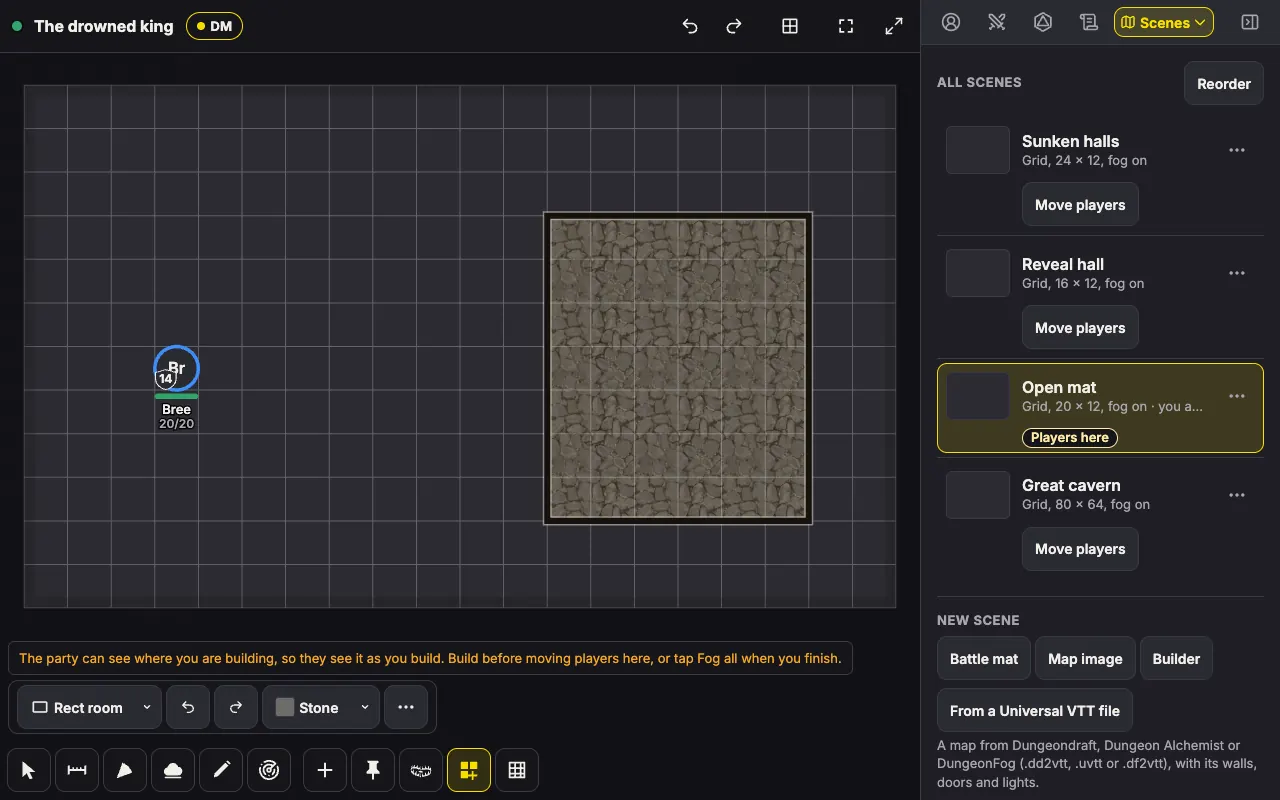
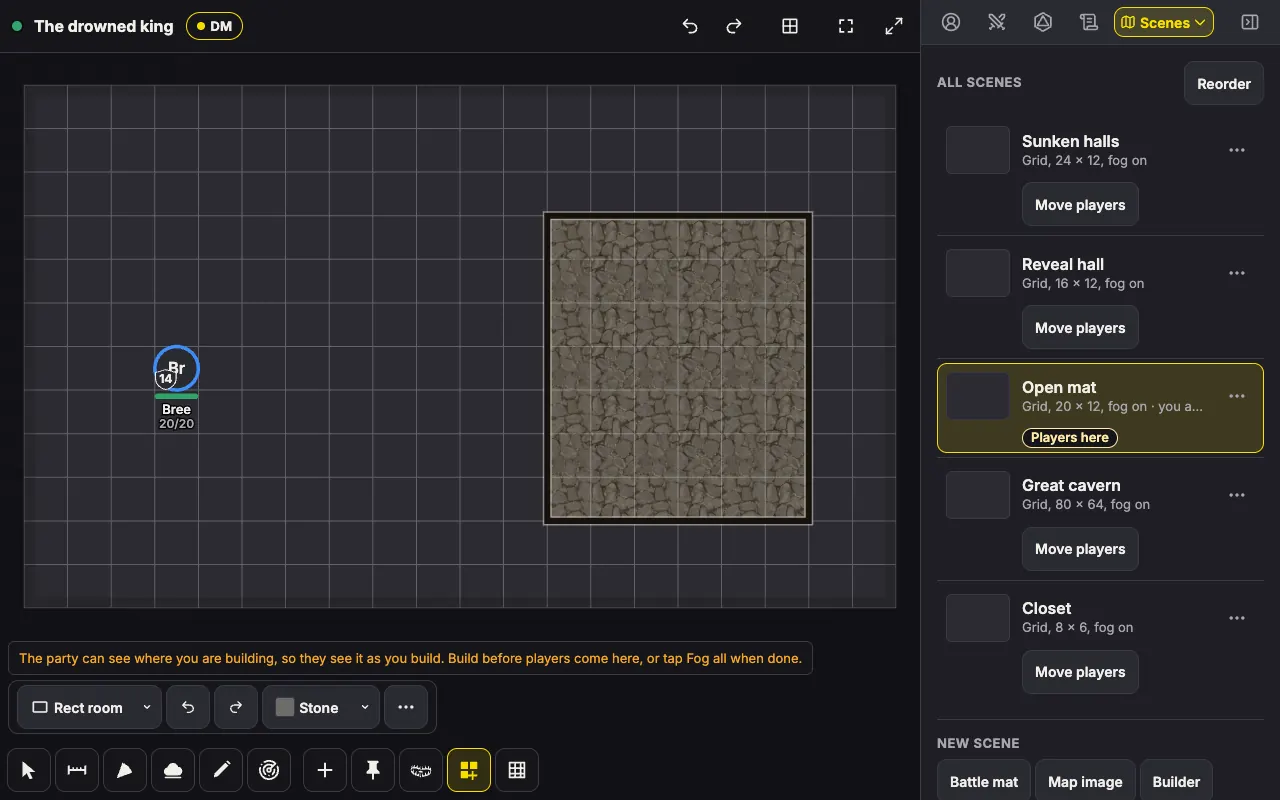
docs: map discovery round 1 for the client lane, what a stop names, first-step stops and the ask before a gesture applies

Changed region(s): [[0.7188, 0.875, 0.9688, 1.0], [0.7188, 0.75, 0.9375, 0.8438], [0.4062, 0.8125, 0.6562, 0.8438]]

diff --git a/docs/design-v1-map-discovery.md b/docs/design-v1-map-discovery.md
@@ -39,7 +39,7 @@ Asking the owner is off, so each choice the decisions leave open is a guess at t
 8. **Written after the batch, replayed as stored**, by the explore step: `sys.explore` then `sys.remember`. Rejected: the reducer writing memory inside each build op (each op would recompute sight).
 9. **Past its cap a layer forgets whole fog tiles, and the builder asks first** (D-261026-29). Rejected: forgetting cell by cell (draws the edit's outline, LK-2), the whole scene (harsh for one paste), refusing the DM.
 10. **Vision or fog off forgets the scene's memory**, and the controls say so first. Rejected: keeping memory while off (hides edits players already saw live).
-11. **The touch rule** (D-261026-29). Its words are judged on the stopping step, from the landing to the next spot, and every stop or refusal whose step touches a cell off live ground gives the generic words, remembered ground included (LK-34). Rejected: M4's ban on entering unheld ground (freezes a blind or unlit creature, stops every step past a reveal, changes play at deploy), refusing a stopped walk in place (free probing from one spot, MD-O-32), drawing what a creature touched (their map would hold geometry their sight never reached), the whole attempted leg for the words (a stop at a wall the player holds would get generic words).
+11. **The touch rule** (D-261026-29). Its words are judged on the stopping step, from the landing to the next spot, and every stop or refusal whose step touches a cell off live ground gives the generic words, remembered ground included (LK-34). D-261027-04 amends a walk's words: a stop names the blocker the walk met where the part of it met lies on the player's live ground, a wall or door beside a live cell or through one, a ledge only between two live cells, whatever lies unseen past it. Rejected: M4's ban on entering unheld ground (freezes a blind or unlit creature, stops every step past a reveal, changes play at deploy), refusing a stopped walk in place (free probing from one spot, MD-O-32), drawing what a creature touched (their map would hold geometry their sight never reached), the whole attempted leg for the words (a stop at a wall the player holds would get generic words).
 12. **Route corners on scenes with memory** reach a non-moving owner of a private leg only where every spot is in that owner's sight or on DM-revealed ground. Rejected: any ground the owner's fog reveals (draws the mover's memory or private sight, ASTRA-3).
 13. **Areas, per receiver** (D-261026-29 item 5). A player gets an area's reminder, caught line or target ring only when every ray its inclusion test reads (footprint samples under `anyCell` or `majority`, every emanation origin) lies on that player's live ground: in sight or DM-revealed, or revealed on a fog-only scene. This holds for every receiving player and for the DM's areas. The DM's roll requests stay the DM's choice. Rejected: the receiver's held build with memory (stale memory would tell a player they are caught when they are not), one representative line (ASTRA-9), the caster's ground alone (LK-24).
 14. **Border facts ride stub chunks.** Every chunk position with a held cell or held edge is sent, one position past the east and south bounds included, as a stub where no chunk is stored. Rejected: east and south border bits in each chunk with `known` from the device's fog (the device's walls would then read fog and lose their cache by chunk identity).
@@ -95,7 +95,7 @@ Asking the owner is off, so each choice the decisions leave open is a guess at t
 - **The device.** The player's copy of the scene carries `autoWalls: "off"` on a scene with fog on. `walls.ts` reads `auto` as automatic walls, `upDir` in place of `stairDirections`, and derives no raised edge beside a cell outside `known`. A position with no chunk is all unknown.
 - **Pieces on the device** (ASTRA-10, MD-R2-1, ASTRA-17, LK-30). A player's chunk takes its free walls through a piece path in `walls.ts` beside `validFreeWall`: ends finite, length above zero and at most 8 cells, and bounds checked exactly. Every piece passes with no slack, since it is at most 5.66 cells long and each end is a lattice value, a grid value or on the scene's side, so ASTRA-17's slack goes. Pieces skip `segments.ts`'s counting split, which indexes by lattice coordinates. The device tests pieces two ways, by what follows the test (below). Its `SegmentIndex` buckets each piece by every cell within 2/10000 cell of it. The device never works out which cells a piece crosses: selection and filing come from the server's exact geometry (ASTRA-30, MD-R7-1). Drawing reads them as they are, as Isometric already splits free walls by cell (`wallPieces`, client/canvas/relief/runs.ts:55). The device's area sweep splits them against the rest in a plain pass bucketed by cell, since device coverage is drawing and the receiver rule of decision 13. A contact within 2/10000 cell of any piece can differ from the server, whose landing then decides.
 - **Two device tests** (ASTRA-30, ASTRA-34). Previews with no server check after them (area rays, caught lists, rings, walking rulers, a drag's drawn path, the words shown before sending) use the conservative test: a piece blocks anything within 2/10000 cell of it, so a T-junction on a tilted piece stays closed and a crossing that rounds to a corner touch still blocks. Gates on an action sent to the server use the permissive test: a piece blocks only where the path crosses its 2/10000-cell band clear through, more than 4/10000 cell from its ends, where the exact wall surely blocks. Within the band the device sends the intended action, and the server's landing or refusal decides by the touch rule, its words by live ground. The invariant: the device never refuses, shortens or withholds an action the exact walls allow. Its gate errors are only permissive, and the server corrects those.
-- **The gates**, each built by MD4 with the permissive test: a drag's landing, its fallback and group legs (`planOne`, client/features/movement/drop.ts:255, `squeezedSpot`, :232), with `sendPlan` (send.ts:32) sending the intended move where the permissive landing is the start. Route legs and arrow steps (`LegCheck`, routeDrag.ts, routeWork.ts), the Isometric drag (client/canvas/isoDrag.ts:135) and Teleport here's squeezed spot (teleport.ts:39). The attach walk (client/features/attach/walk.ts), detach spots (detach.ts:105) and companion placement (`companionLegBlocker`, client/features/tokens/companions.ts). Door reach, for the pill's list and its press (`reachesDoor`, client/features/doors/doors.ts:181, DoorPill.tsx:117), and any panel that disables resize or squeeze by a local fit.
+- **The gates**, each built by MD4 with the permissive test: a drag's landing, its fallback and group legs (`planOne`, client/features/movement/drop.ts:255, `squeezedSpot`, :232), and a lone walk the permissive gate stops at its very first step sends nothing (D-261027-05): that gate stops only where the exact wall surely blocks, so nothing the exact walls allow is withheld, and a remembered wall the DM removed stops a one-cell and a longer drag alike. Route legs and arrow steps (`LegCheck`, routeDrag.ts, routeWork.ts), the Isometric drag (client/canvas/isoDrag.ts:135) and Teleport here's squeezed spot (teleport.ts:39). The attach walk (client/features/attach/walk.ts), detach spots (detach.ts:105) and companion placement (`companionLegBlocker`, client/features/tokens/companions.ts). Door reach, for the pill's list and its press (`reachesDoor`, client/features/doors/doors.ts:181, DoorPill.tsx:117), and any panel that disables resize or squeeze by a local fit.
 
 ### 5.3 Memory: storage and growth
 
@@ -160,7 +160,7 @@ type MemoryChunk = {
 
 - **The touch rule** (D-261026-29). Players move into unheld ground as today, and the server tests the real build. A player's walked move, route piece, arrow step, group leg or attach walk that the real build stops, whatever the held build said (MD-R9-1), is cut on the server at `landing(..., "walk")`'s last clear spot (shared/rules/movement.ts:893) and stored as the move made. The sender's `ev` carries `blocked: [n]`, naming no kind. The stop note's blocker may be unknown, and its "Teleport here" sends `teleport: "unknown"`, which the DM's log reads "teleported past something they could not see" (LK-21). A refused redo is gone: the actor pops it before the check (actor.ts:934), so a retry needs another undo.
 - **Squeeze, resize and companion placement** (D-261026-29 item 10, MD-R2-2, MD-R3-2, LK-31) refuse in place only where the footprint they read lies on live ground, in sight or DM-revealed, which the device predicts. Elsewhere they land, stored as made, by the real build: a squeeze is judged at the cut walk's landing and lands unsqueezed where the full footprint fits or is cut earlier, a resize takes the nearest of a drop's half-cell shifts where its new footprint fits, and a companion the nearest clear spot its placement finds. Only where nothing fits is the op refused, with the generic words, a touch of the cells beside the creature (risk 1).
-- **The words** (MD-O-31, LK-17, LK-20, MD-R2-11). The server tests the stopping step's closed sweep, from the landing to the next spot (resize: the new footprint, squeeze: the full footprint, door reach: the reach line less its end at the door), against the sender's live ground (in sight or DM-revealed, or revealed on a fog-only scene). Any touch of a cell off it gives "Something blocks the way.", else today's words: one rule for every stop and refusal, remembered ground included (LK-34). The device's live ground is all ground with fog off, its revealed fog on a scene with fog on and vision off, and its sight alone with both on, since there its fog merges DM reveals into explored ground (`sharedFogTile`, project.ts:1308) (ASTRA-28). With both on, on DM-revealed ground, it can predict the generic words, a landing where the server refuses in place, or a shorter caught list or fewer rings, and the server's answer corrects it (LK-35). Nothing leaks: the server's live ground holds the device's, and DM-revealed ground is live in the player's data. Routes, attach walks, redo, companion placement, squeeze and door reach take the same rule.
+- **The words** (MD-O-31, LK-17, LK-20, MD-R2-11). The server tests the stopping step's closed sweep, from the landing to the next spot (resize: the new footprint, squeeze: the full footprint, door reach: the reach line less its end at the door), against the sender's live ground (in sight or DM-revealed, or revealed on a fog-only scene). Any touch of a cell off it gives "Something blocks the way.", else today's words: one rule for every stop and refusal, remembered ground included (LK-34). A walk's stop, and every refusal worded as one, names instead the blocker the stopping step meets where the part of it the core meets is live to the sender (D-261027-04): a wall, door or window beside a live cell or through one, a ledge only between two live cells, since a raised edge beside an unseen cell tells that cell's height. The landing already shows where the stop is, and the player sees that blocker, so its name tells nothing new. The device's live ground is all ground with fog off, its revealed fog on a scene with fog on and vision off, and its sight alone with both on, since there its fog merges DM reveals into explored ground (`sharedFogTile`, project.ts:1308) (ASTRA-28). With both on, on DM-revealed ground, it can predict the generic words, a landing where the server refuses in place, or a shorter caught list or fewer rings, and the server's answer corrects it (LK-35). Nothing leaks: the server's live ground holds the device's, and DM-revealed ground is live in the player's data. Routes, attach walks, redo, companion placement, squeeze and door reach take the same rule.
 - **What the device sees.** Its preview walks the held build, so a drag into the dark goes to the finger. The server's landing replaces it within the batch.
 - **Doors** (MD-O-6). The pill shows only held doors. A `door.set` is judged first by the shown door's geometry: memory's where the sender remembers one. While reach fails the answer is a real door's. Once reach passes, a stored door that is gone, moved, or a secret door the DM hid again refuses GONE with the touch recorded (5.3, MD2-O-2), with no dereference of a missing wall (`doorPlace`, permissions.ts:1993). A remembered door whose real state is already the one asked is a no-op, its touch recorded, so the sender then sees it as it is.
 - **Routes** search seen ground (walk.ts:57) over the held build. Corners follow decision 12.
@@ -233,7 +233,7 @@ Each group header is a button with `aria-expanded`. On a phone (below `wideMinWi
 
 ## 9. UI checklist
 
-- **Words** exactly as in 5.3, 6 and 8, and the builder's note on the players' scene while the party's sight meets a cell being built: "The party can see where you are building, so they see it as you build. Build before moving players here, or tap Fog all when you finish."
+- **Words** exactly as in 5.3, 6 and 8, and the builder's note on the players' scene while the party's sight meets a cell being built: "The party can see where you are building, so they see it as you build. Build before players come here, or tap Fog all when done."
 - **Loading.** Players see, the copy sheet and the forget question are busy and refuse a second tap until answered, with the shared indicator after 200 ms. A player's map needs nothing new: chunks come with their fog.
 - **Keys and focus.** Players see is a radio group: Tab reaches it, arrows move. Fold headers take Enter and Space and keep focus. The copy sheet and the forget question trap focus, Escape answers no, and focus returns to what opened them. No new shortcut, so the shortcut sheet and FEATURES.md's key list are unchanged.
 - **Screen readers.** The group is named "Players see" and described by the chosen option's help. Custom, the warnings, the copy result and the stop note are polite statuses kept mounted.
@@ -323,7 +323,7 @@ Each group header is a button with `aria-expanded`. On a phone (below `wideMinWi
 3. `memory`, `memoryBy` and `sys.remember` reach no player's projection or socket. The DM gets them only in the room export.
 4. A player's chunk carries derived facts only for held cells and edges: automatic walls on held edges and directions of held stairs, which may read unheld cells. Their scene copy never carries the real automatic walls rule on a scene with fog on.
 5. The map step writes a holder's memory only from that holder's sight, and the party's only from the shared sight.
-6. A stopped player walk lands at its last clear spot, stored. A refusal or stop whose stopping step touches a cell off the sender's live ground names no kind, in words, `blocked` and the teleport op alike. No preview, refusal or reminder says anything about unheld ground the creature did not reach or touch.
+6. A stopped player walk lands at its last clear spot, stored. A refusal or stop names a kind only for the part of the blocker it met that is live to the sender (D-261027-04), in words and the teleport op alike, and `blocked` names none. No preview, refusal or reminder says anything about unheld ground the creature did not reach or touch.
 7. An area reaches a player, as reminder, caught line or target ring, only when every ray its inclusion reads lies on that player's live ground. Corners of a private leg reach a non-moving owner only on their sight or DM-revealed ground.
 8. No measure reads a memory or an explored layer: each memory counts at its cap or its share, and only the players' scene and the played mark say where it is reserved.
 9. Fail closed. Memory that cannot be kept forgets whole tiles. A device treats a missing chunk, `known` or fog tile as unknown.
@@ -397,7 +397,7 @@ The builders fill this in, lane by lane, with every place the build went its own
 - server/rooms/fanout.ts, MD3's: chunks go by fog class (a one-line change, `chunk` out of the scene kinds), since a holder's chunks would otherwise reach the other players of a per-player scene. A label or stamp some layer's memory names skips the fan-out's kept answers (`namedByMemory`, round 1, MD2-O-1, MD2-LK-2, MD2-ASTRA-2): its projection then reads memory, the class's sight and the remembered box, which that memo's path does not hold, and one class's answer would reach another sharing its fog tiles. Without an entry the path decides it. `dependents` brings every owned token with a path on a sight write, and on an explore write on a scene with vision, since decision 12 reads live ground along the whole leg (MD2-ASTRA-5, MD2-LK-4, MD2-O-8). server/rooms/fanout.discovery.test.ts holds every socket to a fresh projection of a copy of the room, over random rooms with holders and memory.
 - Decision 12: a path records no mover, so on a scene with fog and vision on every owner, the mover too, gets a private leg's corners only on their live ground. A per-player scene with vision off keeps the owner's own fog rule.
 - The touch rule: `touchLanding(op, actor, state, deps)` in shared/permissions.ts lands a player's op that the walls refuse, a walk whatever the held build said (MD-R9-1), for MD3 to ask before `canApply` and store in place of the op sent, with `blocked`. It lands walks (plain, routed, an arrow's step, a group's legs, a holder with those it drags) at `landing`'s last clear spot on the first stopped piece, cut back further by the check itself where that spot is not taken. A group lands each move the walls refuse alone by that single move's rule, what it drags included, then is checked whole (round 1, MD2-ASTRA-4). A group carries no squeeze, so a mover whose own landing would squeeze goes back to the last spot the check takes unsqueezed (round 2, MD2-ASTRA-8, MD2-LK-9). It lands a crafted squeeze unsqueezed, a resize at the nearest spot its own search tries (a half-cell shift is no spot of a size on whole cells), and a companion at the nearest spot on its size's snap grid within 6 cells that the placement takes, clear of the creatures the sender sees. It speaks on every scene with fog on, squares and hexes alike, each judged by its own cells (round 1, MD2-ASTRA-1, MD2-LK-3): fog off and the DM keep today's refusals. Refused in place means the cells the footprint covers are all live, on hexes the hexes it stands on, and the cells beside it count only for the words, on hexes its hexes' neighbors. Every sweep and hull is tested by `convexLive` (shared/rules/held.ts), squares or hexes, a hair past touching included.
-- The words: a stopping step names its blocker's kind only where every cell the core's closed sweep touches, from the last clear spot to the next, is live, and only by what the straight step from the last clear spot itself meets, which lies in that sweep. Anything else gets `SOMETHING_BLOCKS` ("Something blocks the way."), or `SOMETHING_BLOCKS_BACK` after a restore's label. Cells off the scene count as live. A resize reads its new footprint, a squeeze its full one, and door reach its line less its end at the door, where only a token near enough whose line is stopped can give the generic words.
+- The words: a stopping step names its blocker's kind only where every cell the core's closed sweep touches, from the last clear spot to the next, is live, and only by what the straight step from the last clear spot itself meets, which lies in that sweep. MD4's round 1 replaced the sweep for a walk's words by the part of the blocker met (D-261027-04, below). Anything else gets `SOMETHING_BLOCKS` ("Something blocks the way."), or `SOMETHING_BLOCKS_BACK` after a restore's label. Cells off the scene count as live. A resize reads its new footprint, a squeeze its full one, and door reach its line less its end at the door, where only a token near enough whose line is stopped can give the generic words.
 - Doors: a free door is moved when its stored ends differ from the shown ones under the same id. `doorReachPassed(op, actor, state, deps)` says whether reach passed, for MD3 to drop the door's entries on an accepted op and on one refused as gone.
 - shared/rules/movement.ts exports `lastClearSpot` and `legSpots` for the words (no change in them).
 - Decision 13 is gated by op version 26. The rays lie in the hull of where the area's probes start (its origin, the corners of the box an emanation surrounds, an attached area's whole token, on hexes its hexes' corners and the center of the hex a point emanation's origin is in), each grown by 1/64 cell per axis, the most `stepOffWalls` moves a probe off a wall, and of the cells the creature stands on inset by 1/64 cell, or on hexes its hexes, inside which every sample lies (round 1, MD2-LK-5, MD2-ASTRA-3). Every cell of the scene's own grid that hull touches must be live (`convexLive`), searched only inside the scene's box, so a hull reaching far off the scene costs no more than the scene, and an attached area's stored origin, which its probes never read, is no start (round 2, MD2-ASTRA-7). The reducer reads `pendingGround`: sight and the DM's reveals as they are, since the explore step after the batch writes this sight into the explored layers, which projections then read (MD2-O-3). A batch that moves sight away again before it ends leaves that sight unexplored, so a line judged mid-batch can rest on ground no layer then holds. On a whole-party scene a failed hull makes the line the DM's (`hidden`). On a per-player scene each witness keeps it by their own live ground, and `seen` stays only when every player's holds it.
@@ -438,13 +438,15 @@ The builders fill this in, lane by lane, with every place the build went its own
 
 **MD4, client readers.**
 - A build is read by the gate's test unless it is marked: `previewChunks(chunks)` (shared/rules/movement.ts) gives a marked copy, kept per build, that every leg test reads with `pieceTouches`, and an unmarked build reads with `pieceBlocks`. So the device's gates need no change of their own, and a preview marks its view once (drop.ts `previewView`, walkRuler.ts). The previews are the drag's held picture and its hold, the walking ruler, the hold pill and a squeeze's pinch. A drag's picture follows the gate's search wherever the straight way is open, and only its hold, where nothing passes, reads the band. The Isometric drag tests no wall, so it needed nothing. Teleport here's squeezed spot takes the gate's test, as its landing does.
-- `sendPlan` sends the intended move only on a scene with fog on, and only for a lone walk whose permissive landing is its start. A group's held legs send as before.
+- A walk the gate stops at its first step sends nothing, on every scene (D-261027-05, MD4-LK-1, round 1): `DropPlan` has no intended move, so the token never leaves its square, and the note keeps the words the device worked out. mapdiscovery md-4b drags and presses into a seen wall and reads every frame Bree's node draws after the drop.
+- Every gate reads a held piece within its band (MD4-ASTRA-1, MD4-LK-3, round 1). The overlap escape (`partClear`, `stepTester`) asks `leaves`, which bounds the side the start is on and the part's heading by how far rounding moves a piece's ends: the gate lets a part leave where some exact wall the piece stands for would, a preview only where every one would. The pieces cut from one wall, end to end, in line within the band and of one kind (`pieceRun`), count as one where the core touches any of them as a leg starts, since the server holds that wall whole. A door never joins them, since players get doors whole. A committed squeeze sees a piece pass through its footprint only more than the band inside it, and the narrow space (`pinches`) takes a piece's meets within its band and its crossing of the core only where pieceBlocks says it surely crosses. Previews keep the exact pinch and squeeze.
+- A `blocked` answer counts only for the newest walk this device sent of its token (`attempts` in send.ts, MD4-ASTRA-3, round 1), and its note reads the confirmed copy, never the predicted view: an answer a later walk overtook says nothing.
 - The device predicts its own words by `stopWords` on its own live ground (`deviceGround`) for a lone walk and a group's own legs. A creature dragged along keeps today's words. An unknown blocker holds the pill as "Something in the way", the note reads "Something blocks the way.", and Teleport here sends `teleport: "unknown"`. A `blocked` answer to a lone move keeps the device's own note where the server landed it there, and else notes the unknown blocker at the server's landing. A group's says "Some of them stopped short: something blocks the way."
-- On a scene with fog and vision on, a walk stopped at a closed door names no kind: the step past the door touches ground the party cannot see, so decision 11 gives the generic words, and the note no longer says "A door is in the way. Tap it to open." The door itself is in sight, and a tap still opens it. vision.e2e.ts step 4 reads so.
+- The words name the blocker the walk met where it is held live (D-261027-04, MD4-LK-2, round 1): `legStopPart` (movement.ts) gives the part of the first blocker the core meets, clipped to the core where it first reaches it, and `partLive` (held.ts) judges it on live ground, a stretch along a cell side by either cell beside it, one inside a cell by that cell, a ledge by both, a hex part by every hex it touches. The server's `stopWords` and the device's take the same rule, so a door in sight names the door (vision.e2e.ts step 4) and the platform's wall in step 9 names the wall again. `blocked` stays wordless.
 - Areas: the device reads the server's receiver rule itself: `rayHull`, exported from shared/reducer/areaTriggers.ts for both, and `convexLive` on the device's live ground (`raysLive` in client/features/areas/coverage.ts, the ground from `liveGroundOf` in areas/liveGround.ts, null for the DM and with fog off). Caught lists and rings key their cache by the ground too. With fog and vision on the device reads its sight alone, so on ground the DM revealed it can list fewer creatures than the server reminds about, and the server's reminders correct it (LK-35).
-- The map export's player view of a scene with fog on asks MD3's `GET /api/rooms/:id/scenes/:sceneId/player-view` (DM only, `{ scene, buildChunks, labels, stamps, fogTiles }`) and draws that, its secret door count from the known cells. A failed request says "Could not get the players' view of this scene from the server. Check the connection, then try again." and makes no file.
-- The builder's note sits in the Map builder's option line while a gesture's cells meet the party's sight on the players' scene with fog and vision on, and stays until the next press: strokes, rooms, shape rooms, wall runs and label moves. With fog off players hold the whole build, so it never shows.
-- The forget question is one dialog, titled "Remembered map", for every op refused with `forget` but Undo and Redo (builder strokes, pastes, Clear the build, a Universal VTT import), once per gesture, its ops sent again with `forget: true` on Go ahead. A big rectangle room goes as bands of 2,000 cells, so its first bands can be taken before one is asked about: a no sends a quiet `undo` of the gesture's newest taken op, so the room stays unmade where the server allows that undo. Undo and Redo ask in their refusal's toast, with "Forget and undo" or "Forget and redo", which sends `forget` with the refused step's number.
+- The map export's player view of a scene with fog on asks MD3's `GET /api/rooms/:id/scenes/:sceneId/player-view` (DM only, `{ scene, buildChunks, labels, stamps, fogTiles }`) and draws that, its secret door count from the known cells. A failed request says "Could not get the players' view of this scene from the server. Check the connection, then try again." and makes no file. Make image asks whatever the DM's live build, and an answer with nothing to draw and no map image says "Players have seen none of this scene's build yet, so their view has nothing to export." (MD4-ASTRA-4, round 1).
+- The builder's note sits in the Map builder's option line while a gesture's cells meet the party's sight on the players' scene with fog and vision on, and stays until the next press: strokes, rooms, shape rooms, wall runs and label moves. With fog off players hold the whole build, so it never shows. Its last sentence is "Build before players come here, or tap Fog all when done.", short enough that the opened line shows it whole at 320 px and 130% (MD4-LK-4, round 1), which md4-a now measures.
+- The forget question is one dialog, titled "Remembered map", for every op refused with `forget` but Undo and Redo (builder strokes, pastes, Clear the build, a Universal VTT import), once per gesture, its ops sent again with `forget: true` on Go ahead. A gesture known whole of several ops on a scene that keeps memory (a rectangle's bands, a shape too big for one op, a long wall run, a heights area) asks first (builder's item 10, round 1): `build.ask` carries its ops, packed under 48 KiB and 64 ops an ask, `more` on all but the last, under the gesture's undo group ahead of the ops (client/features/builder/ask.ts). The actor reads them on a copy as `#reduce` would, applying, storing and logging nothing, and the last ask is refused with FORGET_ASK where together they pass a layer's cap. Every later op of a group refused with FORGET_ASK is refused with it unless it carries the yes, so no band applies before the answer, and a stroke stops at its first op asked about. A no sends a quiet `undo` of the group's newest taken op, which only a stroke has. The question settles on a snapshot or an expiry that settles its yes's ops, saying "The connection dropped before the server answered. Check that the map shows your change, and make it again if not." when their answers were lost (MD4-ASTRA-2, round 1). Undo and Redo ask in their refusal's toast, with "Forget and undo" or "Forget and redo", which sends `forget` with the refused step's number.
 - `e2e/mapdiscovery.e2e.ts` runs on E2E_PORT plus 36, over four scenes: Sunken halls (md-1 to md-6), Reveal hall (md-7, md-9), Open mat (md-8) and Great cavern (md-6's cap).
 
 ## 16. Review dispositions

diff --git a/docs/dm-guide.md b/docs/dm-guide.md
@@ -451,19 +451,19 @@ On a scene with fog on, a player's device holds only the part of the map the par
 
 **Explored ground shows as the party last saw it.** With party vision on, ground the party has explored but can't see right now stays on their map the way it looked when they last saw it. So if you add a wall, take a door away, or let a monster open a door while the party is elsewhere, their map keeps the old version, and they find the change when they come back and see it. The moment they look again, their map shows the place as it is now. On a scene with fog but no party vision, the ground you have revealed always shows as it is now.
 
-**Building where the party can see.** On ground the party can see, what you build shows on their map as you build it. Rooms you build around them show their outer walls straight away, and their insides stay empty on the players' map, because the party saw that ground empty, until someone looks in. While a stroke of the map builder touches ground the party can see, the builder's row says so: "The party can see where you are building, so they see it as you build. Build before moving players here, or tap Fog all when you finish."
+**Building where the party can see.** On ground the party can see, what you build shows on their map as you build it. Rooms you build around them show their outer walls straight away, and their insides stay empty on the players' map, because the party saw that ground empty, until someone looks in. While a stroke of the map builder touches ground the party can see, the builder's row says so: "The party can see where you are building, so they see it as you build. Build before players come here, or tap Fog all when done."
 
 ![The map builder on the Open mat, with Bree standing in bright light: a room just dragged out with Rectangle room, and the builder's row warning that the party can see where the DM is building.](dm-guide/builder-in-sight.webp)
 
-**Walking into the dark.** Players can still move their tokens onto ground they haven't seen, as they always could. If something stops a move there, the token stops at the last spot it could reach, and the note says only "Something blocks the way.", without saying what, since their map can't know. The same words come whenever the stop touches ground the player can't see right now: a wall in the dark, a closed door with unexplored ground behind it, or a wall the party only remembers, which may have changed. **Teleport here** still lands the token where it was dropped, and your log reads "Bree teleported past something they could not see." A wall the party remembers keeps stopping their moves even after you take it away, until they see that spot again. **Teleport here**, which tests no wall, gets past it too.
+**Walking into the dark.** Players can still move their tokens onto ground they haven't seen, as they always could. If something stops a move there, the token stops at the last spot it could reach, and the note says only "Something blocks the way.", without saying what, since their map can't know. The note names what stopped the move only when the player can see it right now. A wall or a closed door right beside a square they can see is named, even with unexplored ground behind it, so a door in Bree's torchlight still says "A door is in the way. Tap it to open." A ledge is named only when they can see the ground on both sides of it, since its height says something about the far side. A wall in the dark, or a wall the party only remembers, which may have changed, gets the plain words. **Teleport here** still lands the token where it was dropped, and when nothing was named your log reads "Bree teleported past something they could not see." A wall the party remembers keeps stopping their moves even after you take it away, a one-square step into it as much as a longer drag, until they see that spot again. **Teleport here**, which tests no wall, gets past it too.
 
-**How much a map remembers.** Each player's map can keep only so much that changed out of their sight. When a change you make would run past that, the app asks first: "Players' remembered map here will be forgotten. Go ahead?" **Go ahead** makes the change, and the ground it runs past goes back under the fog for the players, as if they had never seen it. Undo doesn't bring that back. **Cancel** leaves the change unmade. Undo and Redo ask the same in their own message, with **Forget and undo** or **Forget and redo**.
+**How much a map remembers.** Each player's map can keep only so much that changed out of their sight. When a change you make would run past that, the app asks first: "Players' remembered map here will be forgotten. Go ahead?" **Go ahead** makes the change, and the ground it runs past goes back under the fog for the players, as if they had never seen it. Undo doesn't bring that back. **Cancel** leaves the change unmade. A big rectangle room or shape is asked about as a whole before any of it is built, so **Cancel** leaves none of it behind. A brush stroke is built as you paint, so the question comes at the point where it would run past, and **Cancel** stops it there. If the connection drops while your **Go ahead** is on its way, the app tells you to check the map, since it can't know whether the change was made. Undo and Redo ask the same in their own message, with **Forget and undo** or **Forget and redo**.
 
 ![The question before a change that would run past what the players' map can keep: "Players' remembered map here will be forgotten. Go ahead?", with Cancel and Go ahead.](dm-guide/forget-question.webp)
 
 **Deleting an image.** If you delete an image from the Library that no stamp on any map uses any more, but that players' maps still show from before, it disappears from their maps too.
 
-**Exporting what players see.** The player view of **Export as image** on a scene with fog on draws what the players' maps hold now, which the app asks the server for: only the ground they have discovered, as they remember it.
+**Exporting what players see.** The player view of **Export as image** on a scene with fog on draws what the players' maps hold now, which the app asks the server for: only the ground they have discovered, as they remember it. That works even after you clear the build, since the players may still remember it, and when they have seen none of the scene the app says so instead of making an empty image.
 
 ## Map phases, imports and exports
 
@@ -1023,7 +1023,7 @@ The label tells you a few more things:
 
 ### When walls stop a move
 
-Each scene has a setting, **Walls and ledges block players' moves**, under **Movement** in its settings, and it is on for every new scene. While it is on, a player's token can't pass through walls, closed doors, windows, pillars or ledges. It walks around them instead, and stops only when there is no way around that the party has seen. The token then holds at the last spot it could reach, and a note says why: "Stopped at a wall. There is no way around it that you have seen.", "Ledge in the way. No stairs you have seen lead there.", or, when the player can see a door in the way and the ground behind it, "A door is in the way. Tap it to open." When the stop touches ground the player can't see right now, the note says only "Something blocks the way." (see [What players' maps hold](#what-players-maps-hold)).
+Each scene has a setting, **Walls and ledges block players' moves**, under **Movement** in its settings, and it is on for every new scene. While it is on, a player's token can't pass through walls, closed doors, windows, pillars or ledges. It walks around them instead, and stops only when there is no way around that the party has seen. The token then holds at the last spot it could reach, and a note says why: "Stopped at a wall. There is no way around it that you have seen.", "Ledge in the way. No stairs you have seen lead there.", or, when the player can see a door in the way, "A door is in the way. Tap it to open." A step straight into a wall from where the token stands sends nothing at all, so the token stays in its square. When what stopped the move is something the player can't see right now, the note says only "Something blocks the way." (see [What players' maps hold](#what-players-maps-hold)).
 
 From that note the player can press **Teleport here** to land where they dropped, for Misty Step and the like. A teleport doesn't count against the creature's Speed, and you get a notice and a log line whenever someone uses it.
 

diff --git a/FEATURES.md b/FEATURES.md
@@ -228,8 +228,8 @@ The Builder tool is the DM's. Its mode picker shows every mode as an even tile w
 
 - With the scene setting "Walls and ledges block players' moves" on, a player's drag goes around walls, closed doors and ledges the party has seen, and stops only where there is no way around, holding at the last free spot with a note saying what stopped it ("There is no way around it that you have seen"). New scenes have it on. A secret door not yet found is a wall to everyone's route, the DM's included.
 - "Teleport here" on that note lands the token where it was dropped, for Misty Step and the like. It doesn't count against Speed, and the DM's log notes it.
-- A stop that touches ground the player cannot see right now, on a scene with fog and party vision (or, without party vision, ground not revealed to them), names nothing: the token holds at its last free spot and the note reads "Something blocks the way.", whether a wall in the dark stopped it, a closed door with unexplored ground behind it, or a wall the party only remembers. Players' moves into ground they have not seen still go, and the server stops them at the last free spot. Teleport here gets past, and the DM's log reads "teleported past something they could not see". A wall the party remembers keeps stopping their moves until they see that spot again or teleport past it.
-- A player's device sends every move, door press, attach walk and companion placement the walls it holds allow, even one that ends a hair's breadth from a wall.
+- On a scene with fog, a stop names what stopped the move only when the player can see it right now: a wall or closed door beside a square they can see is named whatever lies unseen behind it, so a door in their light still reads "A door is in the way. Tap it to open.", and a ledge is named when they can see the ground on both sides of it. Anything else, a wall in the dark, a ledge up to ground they cannot see, or a wall the party only remembers, names nothing: the token holds at its last free spot and the note reads "Something blocks the way." (without party vision, the same goes for ground not revealed to them). Players' moves into ground they have not seen still go, and the server stops them at the last free spot. Teleport here gets past, and past something unnamed the DM's log reads "teleported past something they could not see". A wall the party remembers keeps stopping their moves, a one-square step into it as much as a longer drag, until they see that spot again or teleport past it.
+- A player's device sends every move, door press, attach walk and companion placement the walls it holds allow, even one that ends a hair's breadth from a wall or starts overlapping one. A move a wall stops at its very first step sends nothing, so the token never leaves its square.
 - A creature squeezes through an opening one size too small, as the rules allow. A Large creature fits a 5 ft door or corridor.
 - The DM's moves are never stopped.
 - With the Select tool, a tap on a door offers the DM Open or Close and Lock or Unlock, and Mark found or Hide on a secret door.
@@ -259,10 +259,10 @@ The Builder tool is the DM's. Its mode picker shows every mode as an even tile w
   - Moving players to a scene where no party creature can see warns first.
   - A creature a player drags out of the party's sight vanishes for them too, with a note saying so once the server answers the move, since a light it carries can keep it in sight.
 - **Discovering the map.** On a scene with fog, players' devices hold the build only where the party has seen it or the DM revealed it. A room nobody has seen never reaches them, not its floor, walls, doors, heights, labels or stamps, and a corridor running on into the dark ends on their map with no wall across it. On a fog-only scene revealed ground always shows as it is now.
-  - What the DM builds where the party can see shows to them as it is built, and the inside of a room built around them stays empty on their map until someone looks in. While a builder stroke touches ground the party sees, the builder's row says "The party can see where you are building, so they see it as you build. Build before moving players here, or tap Fog all when you finish."
-  - Each player's map keeps only so much that changed out of their sight. A change that would run past it asks the DM first ("Players' remembered map here will be forgotten. Go ahead?"), and Go ahead puts that ground back under their fog, as if never seen. Undo and Redo ask in their own message, with "Forget and undo" or "Forget and redo".
+  - What the DM builds where the party can see shows to them as it is built, and the inside of a room built around them stays empty on their map until someone looks in. While a builder stroke touches ground the party sees, the builder's row says "The party can see where you are building, so they see it as you build. Build before players come here, or tap Fog all when done."
+  - Each player's map keeps only so much that changed out of their sight. A change that would run past it asks the DM first ("Players' remembered map here will be forgotten. Go ahead?"), and Go ahead puts that ground back under their fog, as if never seen. A big rectangle or shape asks before any of it is built, so Cancel leaves it all unmade, and a stroke asked about partway builds nothing past that point. If the connection drops before the server answers Go ahead, the DM is told to check the map. Undo and Redo ask in their own message, with "Forget and undo" or "Forget and redo".
   - Fog all forgets what the players' maps remembered of the scene too. Deleting a library image that only players' remembered maps still show drops it from their maps.
-  - The player view of Export as image on a scene with fog draws what players' maps hold, asked from the server.
+  - The player view of Export as image on a scene with fog draws what players' maps hold, asked from the server, even after the DM clears the build, and says so when players have seen none of it.
 - **Sight per player.** Under Party vision, a scene's "Sight" is "Whole party" (the default) or "Per player".
   - Per player, each player sees only what the creatures they own see, plus the creatures marked to share sight with the party, and keeps their own map of where they have been. Party members stay visible to everyone.
   - A creature only another player's character sees, its Initiative row, and labels, pins and stamps on ground only another player remembers never reach a player. They see "Another creature's turn" while it acts.
